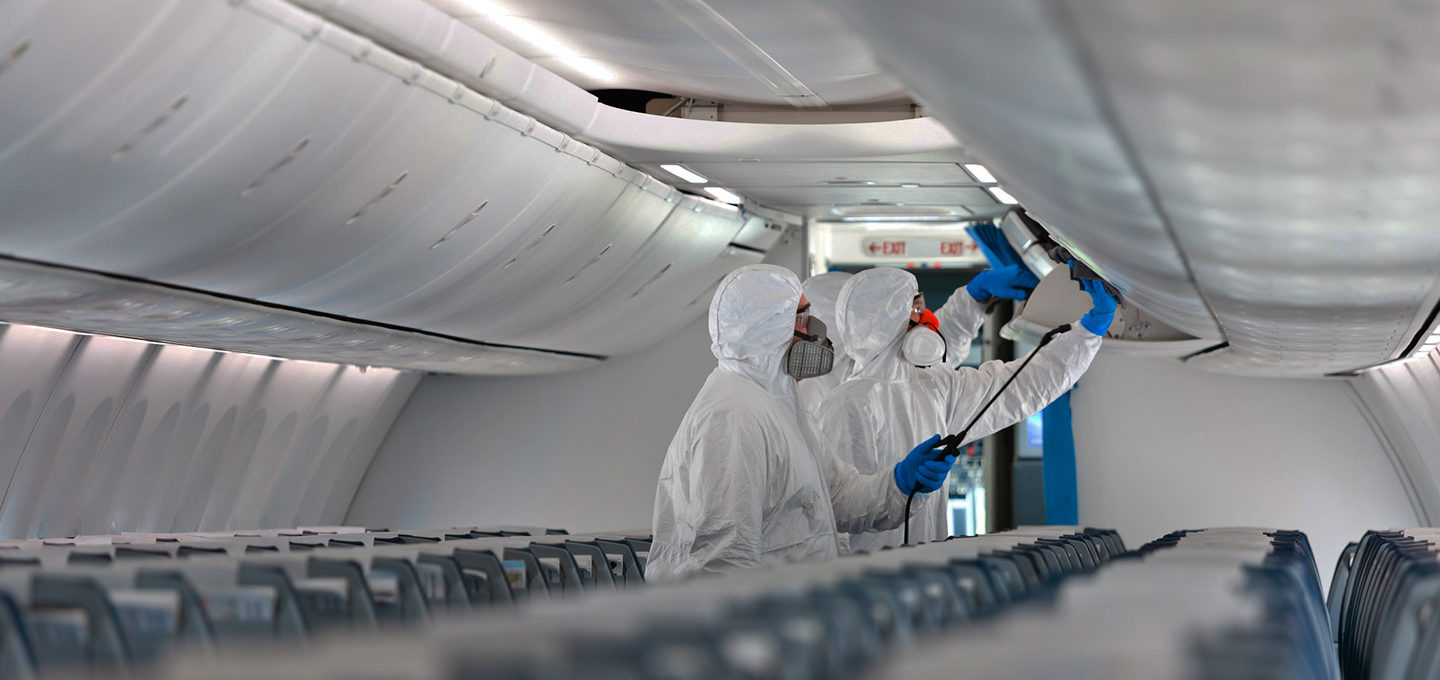
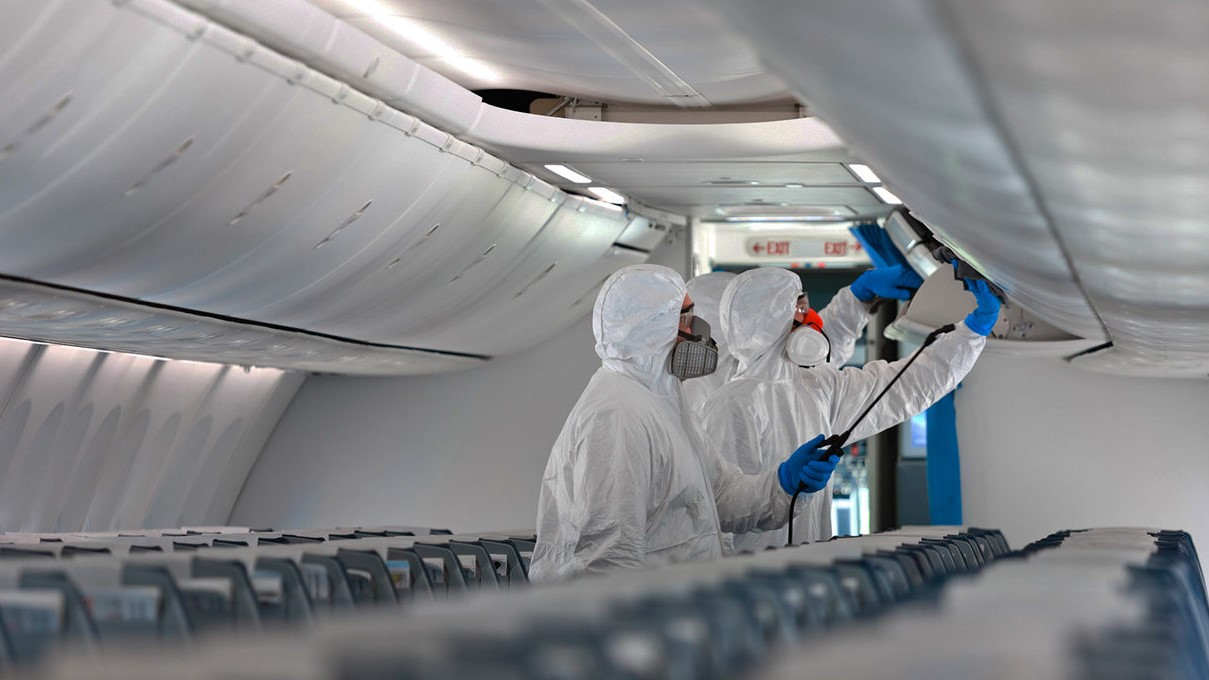
home navbar button added

diff --git a/templates/home.html b/templates/home.html
@@ -267,16 +267,16 @@
 <div id="carouselExampleFade" class="carousel slide carousel-fade" data-bs-ride="carousel">
   <div class="carousel-inner">
     <div class="carousel-item active">
-      <img src="{% get_media_prefix%}dry-wash.png" class="img-responsive" style="width: 100% ; height: 100%" alt="...">
+      <img src="{% get_media_prefix%}dry-wash.png" class="d-block w-100 img-responsive"  alt="...">
     </div>
       <div class="carousel-item ">
-      <img src="{% get_media_prefix%}Airbus undertail.jpg" class="img-responsive" style="width: 100% ; height: 100%" alt="...">
+      <img src="{% get_media_prefix%}Airbus undertail.jpg" class="d-block w-100 img-responsive" alt="...">
     </div>
       <div class="carousel-item">
-      <img src="{% get_media_prefix%}GettyImages.jpg" class="img-responsive" style="width: 100% ; height: 100%" alt="...">
+      <img src="{% get_media_prefix%}GettyImages.jpg" class="d-block w-100 img-responsive" alt="...">
     </div>
         <div class="carousel-item">
-      <img src="{% get_media_prefix%}home-images.jpg" class="img-responsive" style="width: 100% ; height: 100%" alt="...">
+      <img src="{% get_media_prefix%}home-images.jpg" class="d-block w-100 img-responsive" alt="...">
     </div>
   </div>
   <button class="carousel-control-prev" type="button" data-bs-target="#carouselExampleFade" data-bs-slide="prev">
